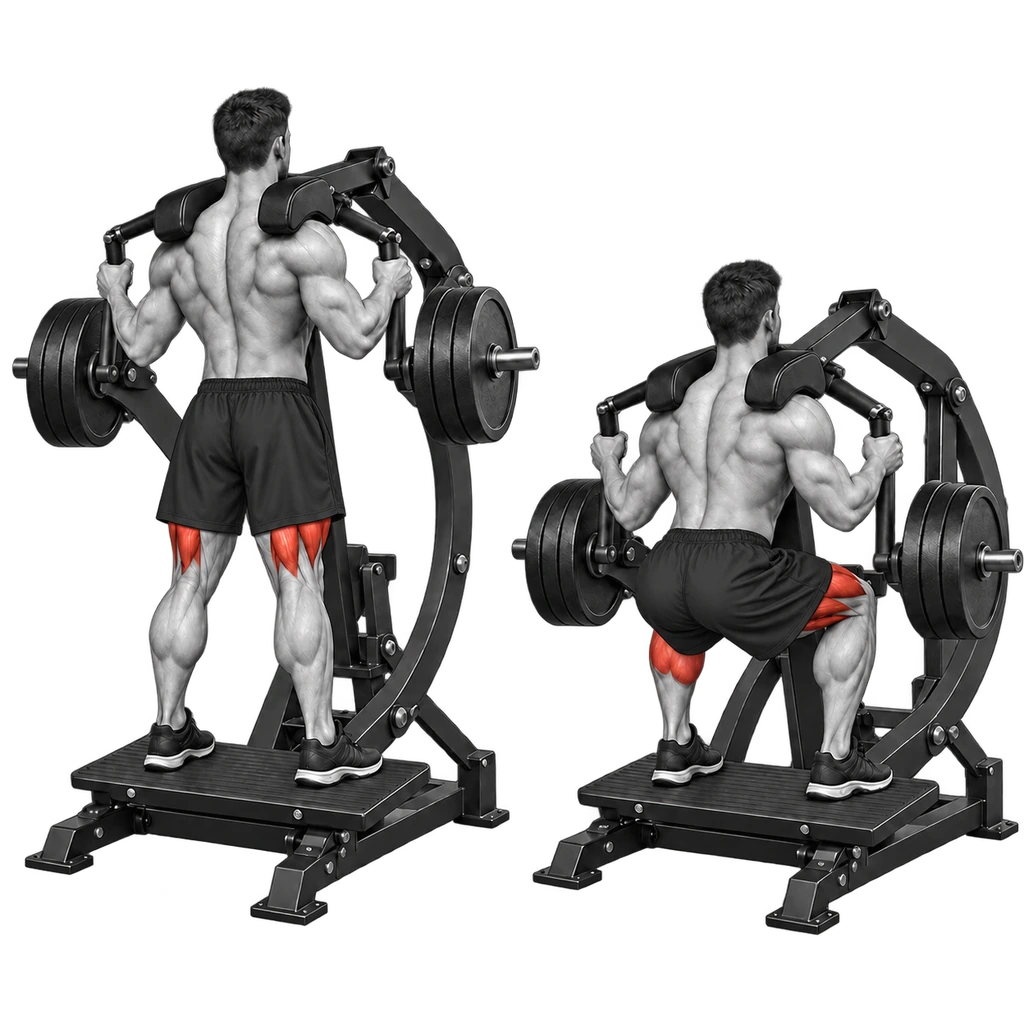
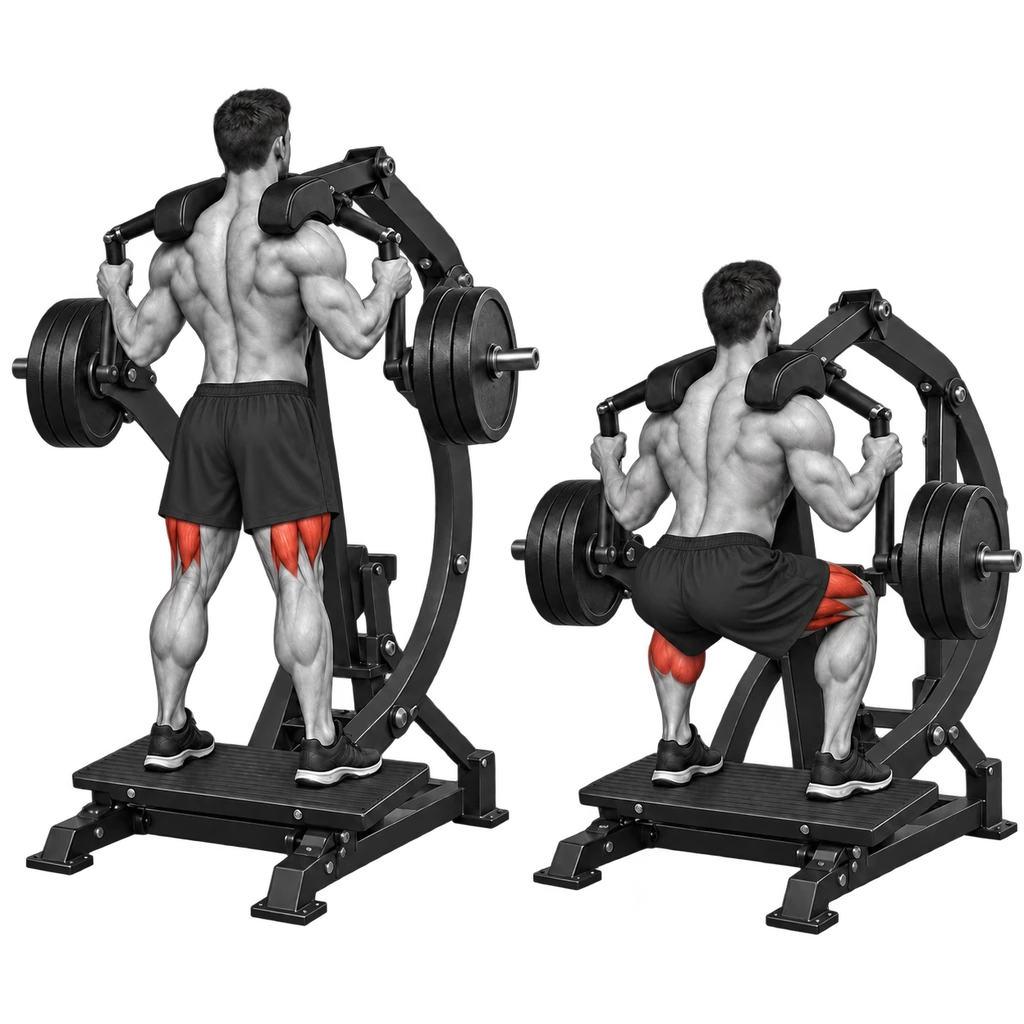
Loosen Super Squat Press shorts

diff --git a/docs/pilots/major-muscle-gap-2026-10-22.md b/docs/pilots/major-muscle-gap-2026-10-22.md
@@ -8,7 +8,7 @@ A renewed post-push scan against manufacturer catalogs found two lower-body mach
[8 lines of base64/hex data omitted]
@@ -141,7 +141,7 @@ The ten-record follow-up and twenty-four later priority-movement records use Atl
 
 ## Plate-Loaded Super Squat Press illustration correction
 
[2 lines of base64/hex data omitted]
 - **Date and creator:** 2026-10-22; Open Exercise Atlas, using the built-in OpenAI image generator. The tool did not expose a model identifier.
 - **Method:** After Yağız reported that the previous shorts still read as nudity, edited the original two-pose illustration again while preserving the machine, poses, muscle highlights, grayscale style, and transparent background. Replaced the fitted shorts with loose, matte opaque black shorts, roomy through the seat and thighs, with straight mid-thigh hems and draped fabric that covers the buttocks and groin in both poses. The output is a 1254 × 1254 RGBA PNG resized to 1024 × 1024 and converted to WebP with Pillow/libwebp (quality 92, alpha retained; alpha extrema 0–255).
 - **Source and rights:** This is an edit of Atlas's existing original AI-assisted illustration; no third-party artwork was imported. The project dedicates any rights it holds in this original illustration under [CC0 1.0](https://creativecommons.org/publicdomain/zero/1.0/). [OpenAI Terms of Use](https://openai.com/policies/terms-of-use/) assign output to the user to the extent permitted by applicable law; outputs may not be unique, and no exclusivity is claimed. Generated media is not expert technique approval.

diff --git a/docs/media-provenance.md b/docs/media-provenance.md
@@ -339,9 +339,9 @@ Three original AI-assisted illustrations added for Dumbbell Reverse Lunge, Cable
 
 ## Plate-Loaded Super Squat Press illustration correction
 
[2 lines of base64/hex data omitted]
 - **Date and creator:** 2026-10-22; Open Exercise Atlas, using the built-in OpenAI image generator. The tool did not expose a model identifier.
-- **Method:** After a second user report that the garment read as nudity, edited the original two-pose illustration again, preserving the machine, pose, muscle highlights, grayscale style, and transparent background. Replaced the shorts in both poses with looser, matte opaque black shorts with relaxed straight legs and hems around mid-thigh; the fabric drapes over the buttocks and groin without anatomical contours. The 1280 × 1280 RGBA PNG was resized to 1024 × 1024 and converted to WebP with Pillow/libwebp (quality 92, alpha retained). Highlighted quadriceps remain visible below the hems.
+- **Method:** After the user reported that the shorts still made the athlete look nude, edited the original two-pose illustration again, preserving the machine, pose, muscle highlights, grayscale style, and transparent background. Replaced the shorts in both poses with loose, matte opaque black shorts; the relaxed fabric fully covers the buttocks and groin without anatomical contours. The 1254 × 1254 RGBA PNG was resized to 1024 × 1024 and converted to WebP with Pillow/libwebp (quality 92, alpha retained). Highlighted quadriceps remain visible below the hems.
 - **Source and rights:** This is an edit of Atlas's existing original AI-assisted illustration; no third-party artwork was imported. The project dedicates any rights it holds in this original illustration under [CC0 1.0](https://creativecommons.org/publicdomain/zero/1.0/). [OpenAI Terms of Use](https://openai.com/policies/terms-of-use/) assign output to the user to the extent permitted by applicable law; outputs may not be unique, and no exclusivity is claimed. Generated media is not expert technique approval.
 - **Record:** [`plate-loaded-super-squat-press.json`](../data/exercises/plate-loaded-super-squat-press.json).
 
